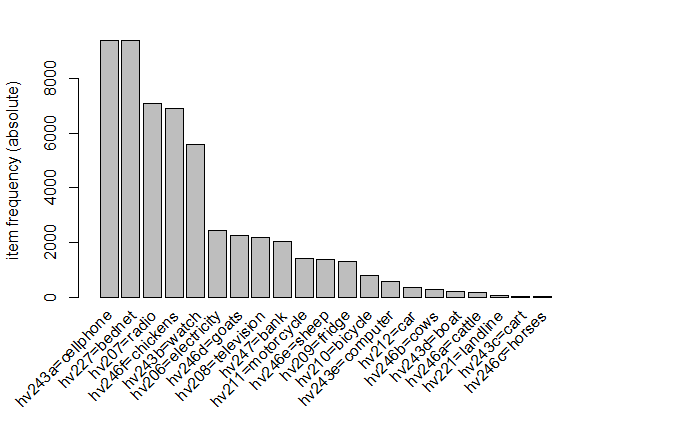
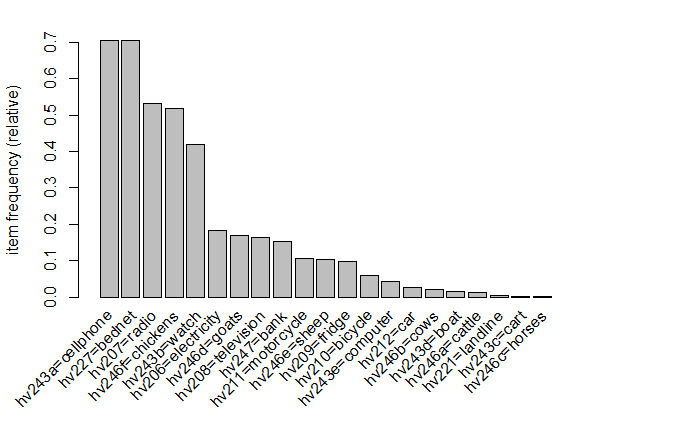
Add the rest of the figures to ARM.

Changed region(s): [[0.06, 0.0602, 0.09, 0.6319], [0.0, 0.1806, 0.03, 0.6019], [0.06, 0.662, 0.09, 0.7222]]

diff --git a/csci5622/arm.html b/csci5622/arm.html
@@ -96,7 +96,38 @@
                 (e) Conclusions. What did you learn that pertains to your topic?  -->
             <h3>Results</h3>
             <p>
-                Before rules are even mined. 
+                Before rules are even mined, one can plot the frequency of each of the items in the transaction data. In this case, this tell us what are the most commonly owned assets among the households surveyed. In the figure below, we can see that the most commonly owned assets by far are cell phones and bednets, followed by radio, chickens, and a watch. The next category might be considered luxuty items in Sierra Leone since fewer than 1 in 5 households have one: electricity, goats, television, and a bank account. Down close to 1 in 10 households, we have motorcycle, sheep, and fridge. Finally, the rest of the assets appear in fewer than 1 in 20 households: bicycle, computer, car, cows, and a boat. The last three assets have such low rates, they no longer seem like luxuries, but rather oddities: landline, animal cart, and horses. Really interesting stuff here.
+            </p>
+            <figure>
+                <img class="figure" src="/csci5622/figures/arm/freq.png">
+                <figcaption>The relative frequencies of assets among Sierra Leonean households.</figcaption>
+            </figure>
+            <p>
+                Rule mining was a bit of an interative process in choosing the thresholds. The maximum value for support was just 0.5, and so the threshold was set relatively low at 0.15 to ensure rarer items with intersting associations could still be captured. Confidence values ranged quite high, so the threshold was set up to 0.5 to filter the total number of rules down close to 60--more than 45 but not much more. Finally, the rules have a minimum number of elements of two to avoid any null values on the left or right hand sides. Below are screenshots of our top rules sorted by their respective metrics:
+            </p>
+            <figure>
+                <img class="figure" src="/csci5622/figures/arm/rulesSup1.png">
+                <img class="figure" src="/csci5622/figures/arm/rulesSup2.png" style="margin-top: -5px;">
+                <figcaption>The 15 rules with the highest support.</figcaption>
+            </figure>
+            <p>
+                Unsurprisingly, the rule with the highest support is among bednets and cellphones, and vice version. The lift is just 1.02 though, meaning their appearance is relatively independent. The next highest support is between cell phones and radios, a logical pairing -- battery powered, connective electronics. A lift > 1 suggests they truly do pair together. Next we have chickens and bednets, which one can assume is an association found in rural areas. The only other item that we see emerge into the most common rules is watches. Not a lot of surpises nor insights here. Next, we can examine the rules with the highest confidence: 
+            </p>
+            <figure>
+                <img class="figure" src="/csci5622/figures/arm/rulesConf1.png">
+                <img class="figure" src="/csci5622/figures/arm/rulesConf2.png" style="margin-top: -5px;">
+                <figcaption>The 15 rules with the highest confidence.</figcaption>
+            </figure>
+            <p>
+                Here, we have some more telling rules! The highest confidence rule is that if a household has a television, there is a > 98% chance that they will have a cell phone. This is intuitive but the level of confidence is still impressive. Along a similar vein, the next high-confidence rule tell us that if a household has electricity, there's a > 97% chance they'll have a cell phone. Neither of these occur very often (about 1 in 6 households), but the confidence is so high. The next few rules are other combinations of assets that suggest a household will have a cell phone, such as a radio and a watch, or a bednet/watch combo. The top 12 confidence rules are all predicting the presence of cell phones. #13-15 are predicting the presence of bednets, given by radio/cell/chickens, as well as a watch. In short, these rules are telling us that cell phones and bednets not just widespread, but that they are much more prevalent among households with other, more rare assets. This suggests a sort of hierarchy among assets that could be useful for future analysis. Next, we can examine the rules with the highest lift: 
+            </p>
+            <figure>
+                <img class="figure" src="/csci5622/figures/arm/rulesLift1.png">
+                <img class="figure" src="/csci5622/figures/arm/rulesLift2.png" style="margin-top: -5px;">
+                <figcaption>The 15 rules with the highest lift.</figcaption>
+            </figure>
+            <p>
+                Finally, we can export the 10 most interesting rules based on lift into an interactive HTML-based visualization. The blue rectangles depict elements, connected by rules in red circles. The intensity of the color shows the lift of each rule. 
             </p>
             <figure>
                 <a href="/csci5622/rulesVis.html">
@@ -104,7 +135,11 @@
                 </a>
                 <figcaption>An interactive visualization of the 10 rules with the highest lift. Click the image for the interactive version!</figcaption>
             </figure>
+            
+            
             <h3>Conclusions</h3>
+            
+            
             <h3>References</h3>
             <p class="reference">
                 Data Camp. 2018. "Market Basket Analysis using R." https://www.datacamp.com/tutorial/market-basket-analysis-r
